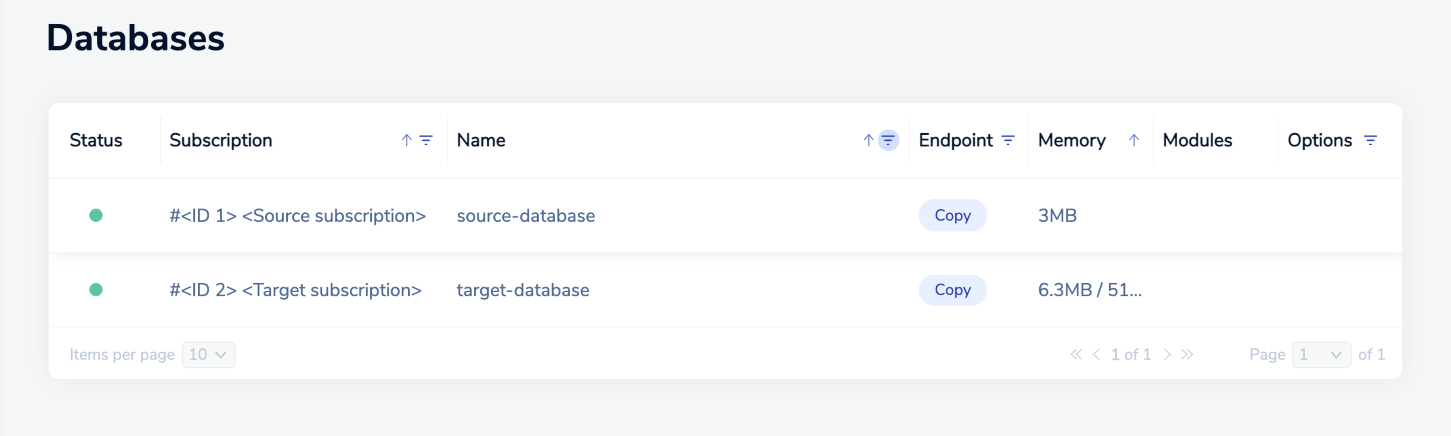
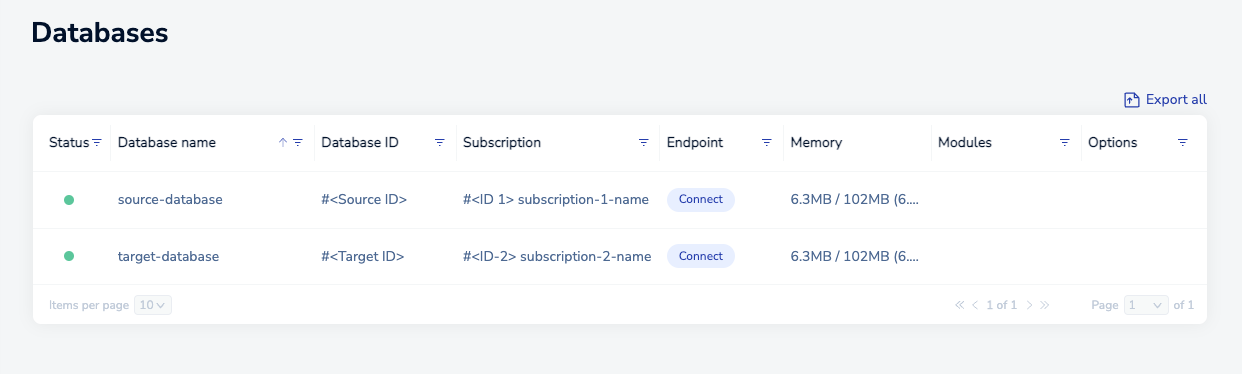
Updated steps and images to reflect UI

diff --git a/content/rc/databases/migrate-databases.md b/content/rc/databases/migrate-databases.md
@@ -48,20 +48,18 @@ To do this, specify the target database as an Active-Passive replica of the the 
 You need the public endpoint details for the source database.  These are available from the database list and the **General** section of the **Configuration** tab for the source database.
 
 {{< note >}}
-If the source database has [Transport Layer Security (TLS)]({{< relref  "/rc/databases/tls-ssl" >}}) enabled, an error will appear when attempting to sync the two databases. [Contact support](https://redis.com/company/support/) if you would like to migrate a TLS-enabled database using Active-Passive.
+If the source database has [Transport Layer Security (TLS)]({{< relref  "/rc/security/database-security/tls-ssl" >}}) enabled, an error will appear when attempting to sync the two databases. [Contact support](https://redis.com/company/support/) if you would like to migrate a TLS-enabled database using Active-Passive.
 {{< /note >}}
 
 Here's how this works for databases hosted on the same account:
 
-1.  Select **Databases** from the [admin menu](http://app.redis.com/) and locate the source database in the list.
+1.  Select **Databases** from the [admin menu](http://app.redis.com/) and select the source database in the list.
 
     {{<image filename="images/rc/migrate-database-select-source.png" alt="Select the source database from the database list." >}}{{< /image >}}
 
-2.  Select the **Copy** button in the **Endpoint** column for the source database, which copies the endpoint details to the Clipboard.
+2.  Select the **Copy** button next to the **Public endpoint** details for the source database to copy the endpoint details to the Clipboard.
 
-    {{<image filename="images/rc/button-database-copy.png" alt="The Copy button copies the public endpoint details to the Clipboard." >}}{{< /image >}}
-
-    (You can also use the **Copy** button next to the **Public endpoint** details in the **General** section of the **Configuration** tab for the source database.)
+    {{<image filename="images/rc/database-public-endpoint-copy.png" alt="The Copy button copies the public endpoint details to the Clipboard." >}}{{< /image >}}
 
 3.  Use the database list drop-down to select the target database.
 
